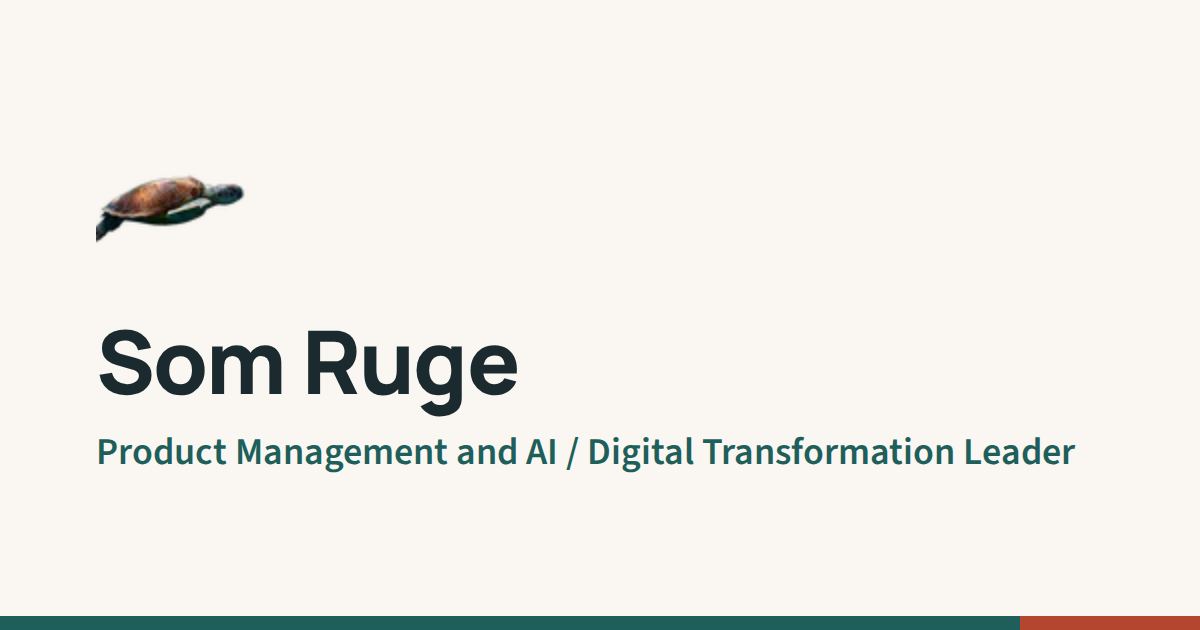
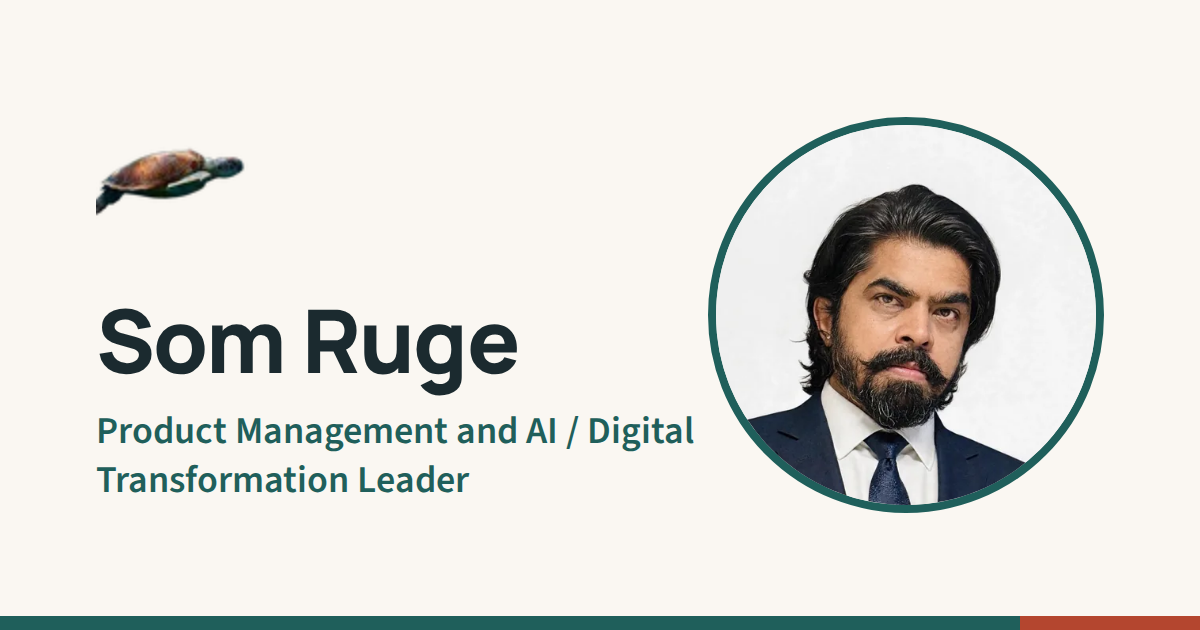
Add portrait to the social preview image

diff --git a/index.html b/index.html
@@ -13,7 +13,7 @@
 <meta property="og:title" content="Som Ruge — Product Management &amp; AI / Digital Transformation Leader">
 <meta property="og:description" content="Product and program leader with 20+ years delivering enterprise Agile transformations, now applying AI to how teams plan, decide, and ship.">
 <meta property="og:image" content="https://somruge.github.io/og-image.png">
-<meta property="og:image:alt" content="Som Ruge, Product Management and AI / Digital Transformation Leader, with a sea turtle logo">
+<meta property="og:image:alt" content="Som Ruge, Product Management and AI / Digital Transformation Leader, with a portrait and a sea turtle logo">
 <meta name="twitter:card" content="summary_large_image">
 
 <link rel="preload" href="assets/fonts/manrope-latin-800-normal.woff2" as="font" type="font/woff2" crossorigin>
